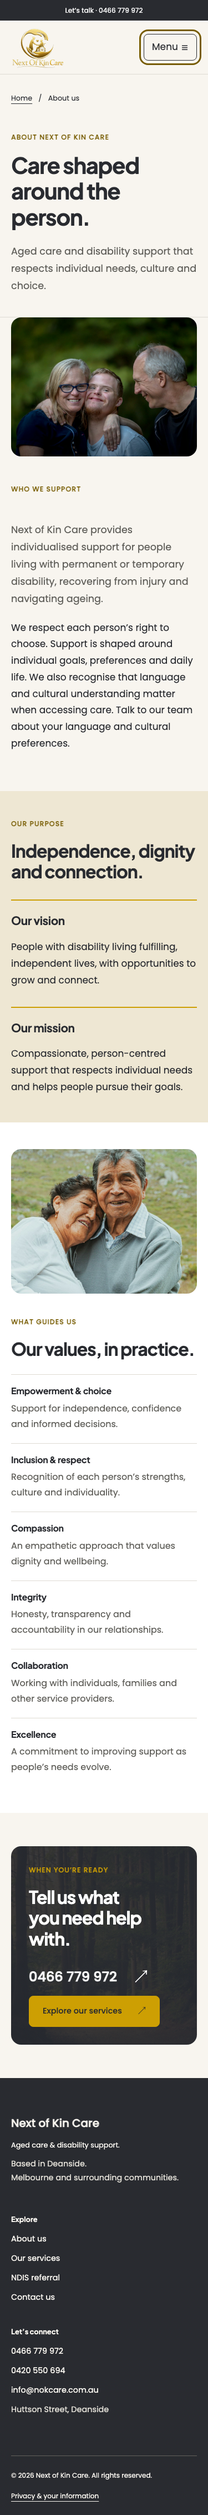
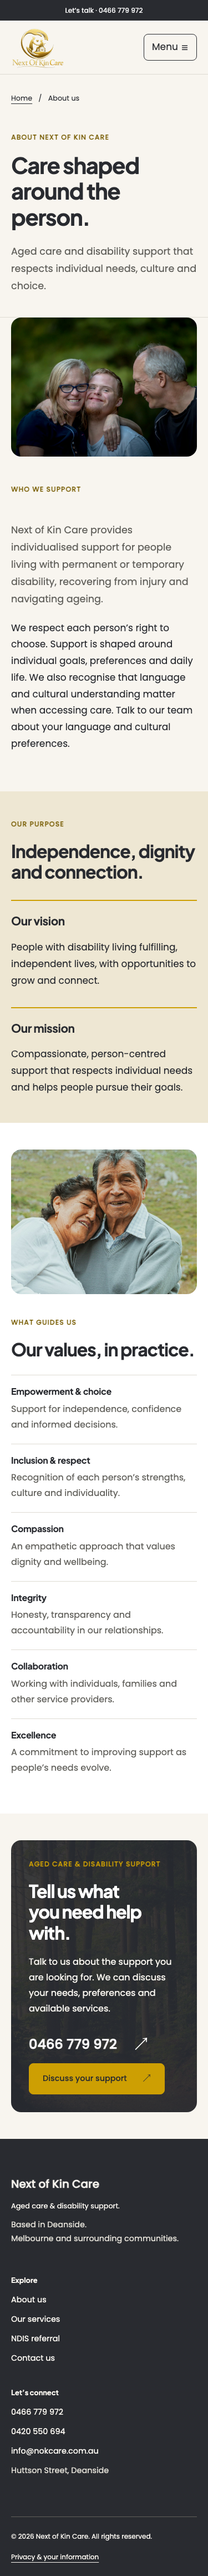
Share detailed closing CTAs across inner pages and remove group enquiry links

diff --git a/services.html b/services.html
@@ -2,5 +2,5 @@
 <html lang="en-AU"><head><meta charset="utf-8"><meta name="viewport" content="width=device-width, initial-scale=1"><title>Our Services | Next of Kin Care</title><meta name="description" content="Explore NOK Care services including daily living, personal care, household tasks, transport, community participation and NDIS support."><meta name="theme-color" content="#F8F5EF"><meta property="og:title" content="Our Services | Next of Kin Care"><meta property="og:description" content="Explore NOK Care services including daily living, personal care, household tasks, transport, community participation and NDIS support."><meta property="og:type" content="website"><link rel="icon" href="assets/icons/favicon.svg" type="image/svg+xml"><link rel="stylesheet" href="css/brand.css"><link rel="stylesheet" href="css/global.css"><link rel="stylesheet" href="css/components.css"><link rel="stylesheet" href="css/layout.css"><link rel="stylesheet" href="css/responsive.css"><script type="module" src="js/main.js"></script></head><body class="page-services"><a class="skip-link" href="#main">Skip to content</a>
 <header class="site-header"><div class="utility"><div class="container"><span>Aged care & disability support</span><a href="tel:0466779972">Let’s talk · 0466 779 972</a></div></div>
 <div class="container header-inner"><a class="brand" href="index.html" aria-label="Next of Kin Care home"><img src="assets/images/nok-care-logo.png" alt="Next of Kin Care" width="375" height="286"></a><button type="button" class="menu-toggle" aria-expanded="false" aria-controls="main-nav" hidden>Menu <span aria-hidden="true">☰</span></button><nav id="main-nav" aria-label="Main navigation"><a href="index.html">Home</a><a href="about.html">About us</a><a href="services.html" aria-current="page">Services</a><a href="contact.html">Contact us</a><a class="button button-small" href="referral.html">NDIS referral <span aria-hidden="true">↗</span></a></nav></div></header><main id="main" tabindex="-1"><section class="page-hero"><div class="container"><div class="breadcrumb"><a href="index.html">Home</a><span aria-hidden="true">/</span><span>Services</span></div><div class="page-heading page-heading--compact"><div class="page-heading-copy"><span class="eyebrow">Our services</span><h1>Help at home. Support to get out.</h1><p class="lead">Browse our aged care and disability support services. Call us to discuss your needs, funding and availability.</p></div></div></div></section>
-<section class="section section-tight" id="service-directory"><div class="container"><nav class="category-nav" aria-label="Service categories"><a href="#home-support">At home & daily life <span aria-hidden="true">↓</span></a><a href="#community-support">Community, travel & work <span aria-hidden="true">↓</span></a><a href="#plan-support">NDIS plan & coordination <span aria-hidden="true">↓</span></a></nav><div id="disability-support" class="directory-intro"><span class="eyebrow">Disability & NDIS support</span><p>Browse our published services below. Contact the team to confirm suitability, current availability and funding arrangements.</p></div><section class="service-group" id="home-support"><div class="service-group-intro"><h2>At home &amp; everyday life</h2><p>Practical support with routines, personal activities and independent living.</p><img class="service-group-photo" src="assets/images/aged-care-companionship.jpg" alt="An older couple sharing a hug outdoors" width="900" height="1350" loading="lazy"></div><div class="service-group-content"><div class="service-grid service-grid--plain"><article class="service-card" id="personal-care"><div class="service-copy"><h3>Personal care</h3><p>Respectful support with personal routines, mobility, meals and everyday wellbeing.</p></div></article><article class="service-card" id="daily-living"><div class="service-copy"><h3>Daily living &amp; life skills</h3><p>Build practical skills for everyday independence, including cooking, budgeting and daily routines.</p></div></article><article class="service-card" id="household"><div class="service-copy"><h3>Household tasks</h3><p>Practical help with cleaning, laundry, meal preparation and keeping your home comfortable.</p></div></article><article class="service-card" id="sil"><div class="service-copy"><h3>Supported independent living</h3><p>Personalised assistance with everyday life in an independent or shared home.</p></div></article></div><a class="text-link service-group-discuss" href="contact.html" aria-label="Discuss these services: At home &amp; everyday life">Discuss these services</a></div></section><section class="service-group" id="community-support"><div class="service-group-intro"><h2>Out in your community</h2><p>Explore connection, travel, activities, work and study support.</p><img class="service-group-photo" src="assets/images/community-connections.jpg" alt="Friends sitting together outdoors" width="900" height="506" loading="lazy"></div><div class="service-group-content"><div class="service-grid service-grid--plain"><article class="service-card" id="community"><div class="service-copy"><h3>Community participation</h3><p>Stay connected through social, recreational, cultural and community activities.</p></div></article><article class="service-card" id="innovative-community"><div class="service-copy"><h3>Innovative community participation</h3><p>Explore interests, develop skills and build confidence through meaningful activities.</p></div></article><article class="service-card" id="transport"><div class="service-copy"><h3>Travel &amp; transport assistance</h3><p>Support to get to appointments, education, work and activities in your community.</p></div></article><article class="service-card" id="employment"><div class="service-copy"><h3>Employment &amp; higher education</h3><p>Practical support with job readiness, applications, study skills and workplace confidence.</p></div></article></div><a class="text-link service-group-discuss" href="contact.html" aria-label="Discuss these services: Out in your community">Discuss these services</a></div></section><section class="service-group" id="plan-support"><div class="service-group-intro"><h2>Your plan &amp; support network</h2><p>Explore help with plan administration and connecting services.</p><img class="service-group-photo" src="assets/images/planning-together.jpg" alt="People discussing ideas around a table" width="1100" height="733" loading="lazy"></div><div class="service-group-content"><div class="service-grid service-grid--plain"><article class="service-card" id="plan-management"><div class="service-copy"><h3>NDIS plan management</h3><p>Support with invoices, provider payments, budget tracking and financial reporting.</p></div></article><article class="service-card" id="coordination"><div class="service-copy"><h3>Support coordination</h3><p>Help understanding your NDIS plan and connecting with suitable services and supports.</p></div></article></div><a class="text-link service-group-discuss" href="contact.html" aria-label="Discuss these services: Your plan &amp; support network">Discuss these services</a></div></section></div></section>
-<section class="section section-standard" id="aged-care"><div class="container cta cta-services"><div><span class="eyebrow">Aged care & disability support</span><h2>Tell us what<br>you need help with.</h2><p>Looking for aged care? Talk to us about help at home and staying connected. We’ll discuss suitable services, availability and funding for your circumstances.</p></div><div><a class="cta-phone" href="tel:0466779972">0466 779 972 <span aria-hidden="true">↗</span></a><a class="button" href="contact.html">Discuss your support <span aria-hidden="true">↗</span></a></div></div></section></main><footer class="site-footer"><div class="container footer-grid"><div><a class="footer-brand" href="index.html">Next of Kin Care<span>Aged care & disability support.</span></a><p>Based in Deanside.<br>Melbourne and surrounding communities.</p></div><div><h2>Explore</h2><a href="about.html">About us</a><a href="services.html">Our services</a><a href="referral.html">NDIS referral</a><a href="contact.html">Contact us</a></div><div><h2>Let’s connect</h2><a href="tel:0466779972">0466 779 972</a><a href="tel:0420550694">0420 550 694</a><a href="mailto:info@nokcare.com.au">info@nokcare.com.au</a><p>Huttson Street, Deanside</p></div></div><div class="container footer-bottom"><span>© 2026 Next of Kin Care. All rights reserved.</span><a href="contact.html#privacy">Privacy & your information</a></div></footer></body></html>
+<section class="section section-tight" id="service-directory"><div class="container"><nav class="category-nav" aria-label="Service categories"><a href="#home-support">At home & daily life <span aria-hidden="true">↓</span></a><a href="#community-support">Community, travel & work <span aria-hidden="true">↓</span></a><a href="#plan-support">NDIS plan & coordination <span aria-hidden="true">↓</span></a></nav><div id="disability-support" class="directory-intro"><span class="eyebrow">Disability & NDIS support</span><p>Browse our published services below. Contact the team to confirm suitability, current availability and funding arrangements.</p></div><section class="service-group" id="home-support"><div class="service-group-intro"><h2>At home &amp; everyday life</h2><p>Practical support with routines, personal activities and independent living.</p><img class="service-group-photo" src="assets/images/aged-care-companionship.jpg" alt="An older couple sharing a hug outdoors" width="900" height="1350" loading="lazy"></div><div class="service-group-content"><div class="service-grid service-grid--plain"><article class="service-card" id="personal-care"><div class="service-copy"><h3>Personal care</h3><p>Respectful support with personal routines, mobility, meals and everyday wellbeing.</p></div></article><article class="service-card" id="daily-living"><div class="service-copy"><h3>Daily living &amp; life skills</h3><p>Build practical skills for everyday independence, including cooking, budgeting and daily routines.</p></div></article><article class="service-card" id="household"><div class="service-copy"><h3>Household tasks</h3><p>Practical help with cleaning, laundry, meal preparation and keeping your home comfortable.</p></div></article><article class="service-card" id="sil"><div class="service-copy"><h3>Supported independent living</h3><p>Personalised assistance with everyday life in an independent or shared home.</p></div></article></div></div></section><section class="service-group" id="community-support"><div class="service-group-intro"><h2>Out in your community</h2><p>Explore connection, travel, activities, work and study support.</p><img class="service-group-photo" src="assets/images/community-connections.jpg" alt="Friends sitting together outdoors" width="900" height="506" loading="lazy"></div><div class="service-group-content"><div class="service-grid service-grid--plain"><article class="service-card" id="community"><div class="service-copy"><h3>Community participation</h3><p>Stay connected through social, recreational, cultural and community activities.</p></div></article><article class="service-card" id="innovative-community"><div class="service-copy"><h3>Innovative community participation</h3><p>Explore interests, develop skills and build confidence through meaningful activities.</p></div></article><article class="service-card" id="transport"><div class="service-copy"><h3>Travel &amp; transport assistance</h3><p>Support to get to appointments, education, work and activities in your community.</p></div></article><article class="service-card" id="employment"><div class="service-copy"><h3>Employment &amp; higher education</h3><p>Practical support with job readiness, applications, study skills and workplace confidence.</p></div></article></div></div></section><section class="service-group" id="plan-support"><div class="service-group-intro"><h2>Your plan &amp; support network</h2><p>Explore help with plan administration and connecting services.</p><img class="service-group-photo" src="assets/images/planning-together.jpg" alt="People discussing ideas around a table" width="1100" height="733" loading="lazy"></div><div class="service-group-content"><div class="service-grid service-grid--plain"><article class="service-card" id="plan-management"><div class="service-copy"><h3>NDIS plan management</h3><p>Support with invoices, provider payments, budget tracking and financial reporting.</p></div></article><article class="service-card" id="coordination"><div class="service-copy"><h3>Support coordination</h3><p>Help understanding your NDIS plan and connecting with suitable services and supports.</p></div></article></div></div></section></div></section>
+<section class="section section-standard" id="aged-care"><div class="container cta cta-detailed"><div><span class="eyebrow">Aged care & disability support</span><h2>Tell us what<br>you need help with.</h2><p>Looking for aged care? Talk to us about help at home and staying connected. We’ll discuss suitable services, availability and funding for your circumstances.</p></div><div><a class="cta-phone" href="tel:0466779972">0466 779 972 <span aria-hidden="true">↗</span></a><a class="button" href="contact.html">Discuss your support <span aria-hidden="true">↗</span></a></div></div></section></main><footer class="site-footer"><div class="container footer-grid"><div><a class="footer-brand" href="index.html">Next of Kin Care<span>Aged care & disability support.</span></a><p>Based in Deanside.<br>Melbourne and surrounding communities.</p></div><div><h2>Explore</h2><a href="about.html">About us</a><a href="services.html">Our services</a><a href="referral.html">NDIS referral</a><a href="contact.html">Contact us</a></div><div><h2>Let’s connect</h2><a href="tel:0466779972">0466 779 972</a><a href="tel:0420550694">0420 550 694</a><a href="mailto:info@nokcare.com.au">info@nokcare.com.au</a><p>Huttson Street, Deanside</p></div></div><div class="container footer-bottom"><span>© 2026 Next of Kin Care. All rights reserved.</span><a href="contact.html#privacy">Privacy & your information</a></div></footer></body></html>

diff --git a/contact.html b/contact.html
@@ -21,4 +21,5 @@
     <noscript><p class="notice">This form preview needs JavaScript. Please use the phone or email details on this page.</p></noscript>
   </form>
 </div><div class="contact-sidebar"><span class="eyebrow">Direct contact</span><h2>Other ways to connect.</h2><div class="contact-detail"><span>Call the team</span><a href="tel:0466779972">0466 779 972</a><br><a href="tel:0420550694">0420 550 694</a></div><div class="contact-detail"><span>Email for general enquiries</span><a href="mailto:info@nokcare.com.au">info@nokcare.com.au</a></div><div class="contact-detail"><span>Location</span>Huttson Street, Deanside<p class="form-note">Please call to confirm appointment arrangements.</p></div><figure class="sidebar-photo"><img src="assets/images/melbourne-river.jpg" alt="Melbourne skyline and the Yarra River" width="1200" height="800" loading="lazy"><figcaption>Melbourne and surrounding communities</figcaption></figure><h3>Our service areas</h3><div class="pills"><span class="pill">Melbourne</span><span class="pill">Lara</span><span class="pill">Bannockburn</span><span class="pill">Geelong</span><span class="pill">Werribee</span></div><p class="form-note">Ask the team about availability in your suburb.</p></div></div></div></section>
-<section class="section section-standard white" id="privacy"><div class="container narrow"><span class="eyebrow">Your information</span><h2>Your information.</h2><p>This website provides phone and email links for general enquiries. The form is a preview: details stay on the page and are not sent or saved by this website. It does not collect participant records or use analytics or browser storage.</p><p>For general questions, call or email the team. Before providing personal, health or NDIS documents, call to agree on a secure way to share them. Contact the team with questions about how information shared by phone or email is handled.</p></div></section></main><footer class="site-footer"><div class="container footer-grid"><div><a class="footer-brand" href="index.html">Next of Kin Care<span>Aged care & disability support.</span></a><p>Based in Deanside.<br>Melbourne and surrounding communities.</p></div><div><h2>Explore</h2><a href="about.html">About us</a><a href="services.html">Our services</a><a href="referral.html">NDIS referral</a><a href="contact.html">Contact us</a></div><div><h2>Let’s connect</h2><a href="tel:0466779972">0466 779 972</a><a href="tel:0420550694">0420 550 694</a><a href="mailto:info@nokcare.com.au">info@nokcare.com.au</a><p>Huttson Street, Deanside</p></div></div><div class="container footer-bottom"><span>© 2026 Next of Kin Care. All rights reserved.</span><a href="contact.html#privacy">Privacy & your information</a></div></footer></body></html>
+<section class="section section-standard white" id="privacy"><div class="container narrow"><span class="eyebrow">Your information</span><h2>Your information.</h2><p>This website provides phone and email links for general enquiries. The form is a preview: details stay on the page and are not sent or saved by this website. It does not collect participant records or use analytics or browser storage.</p><p>For general questions, call or email the team. Before providing personal, health or NDIS documents, call to agree on a secure way to share them. Contact the team with questions about how information shared by phone or email is handled.</p></div></section>
+<section class="section section-standard"><div class="container cta cta-detailed"><div><span class="eyebrow">Aged care & disability support</span><h2>Tell us what<br>you need help with.</h2><p>Call or email the team to discuss support, availability and the next step. Please arrange a secure channel before sharing personal documents.</p></div><div><a class="cta-phone" href="tel:0466779972">0466 779 972 <span aria-hidden="true">↗</span></a><a class="button" href="mailto:info@nokcare.com.au">Email the team <span aria-hidden="true">↗</span></a></div></div></section></main><footer class="site-footer"><div class="container footer-grid"><div><a class="footer-brand" href="index.html">Next of Kin Care<span>Aged care & disability support.</span></a><p>Based in Deanside.<br>Melbourne and surrounding communities.</p></div><div><h2>Explore</h2><a href="about.html">About us</a><a href="services.html">Our services</a><a href="referral.html">NDIS referral</a><a href="contact.html">Contact us</a></div><div><h2>Let’s connect</h2><a href="tel:0466779972">0466 779 972</a><a href="tel:0420550694">0420 550 694</a><a href="mailto:info@nokcare.com.au">info@nokcare.com.au</a><p>Huttson Street, Deanside</p></div></div><div class="container footer-bottom"><span>© 2026 Next of Kin Care. All rights reserved.</span><a href="contact.html#privacy">Privacy & your information</a></div></footer></body></html>

diff --git a/about.html b/about.html
@@ -6,4 +6,4 @@
 <section class="section section-standard"><div class="container editorial-row"><span class="eyebrow">Who we support</span><div class="about-story"><p class="lead">Next of Kin Care provides individualised support for people living with permanent or temporary disability, recovering from injury and navigating ageing.</p><p>We respect each person’s right to choose. Support is shaped around individual goals, preferences and daily life. We also recognise that language and cultural understanding matter when accessing care. Talk to our team about your language and cultural preferences.</p></div></div></section>
 <section class="section section-standard purpose-band"><div class="container"><span class="eyebrow">Our purpose</span><h2>Independence, dignity<br>and connection.</h2><div class="purpose-grid"><article><h3>Our vision</h3><p>People with disability living fulfilling, independent lives, with opportunities to grow and connect.</p></article><article><h3>Our mission</h3><p>Compassionate, person-centred support that respects individual needs and helps people pursue their goals.</p></article></div></div></section>
 <section class="section section-standard white"><div class="container values-feature"><img src="assets/images/aged-care-companionship.jpg" alt="An older couple sharing a moment outdoors" width="900" height="1350" loading="lazy"><div><span class="eyebrow">What guides us</span><h2>Our values, in practice.</h2><div class="values-grid"><div class="value"><h3>Empowerment &amp; choice</h3><p>Support for independence, confidence and informed decisions.</p></div><div class="value"><h3>Inclusion &amp; respect</h3><p>Recognition of each person’s strengths, culture and individuality.</p></div><div class="value"><h3>Compassion</h3><p>An empathetic approach that values dignity and wellbeing.</p></div><div class="value"><h3>Integrity</h3><p>Honesty, transparency and accountability in our relationships.</p></div><div class="value"><h3>Collaboration</h3><p>Working with individuals, families and other service providers.</p></div><div class="value"><h3>Excellence</h3><p>A commitment to improving support as people’s needs evolve.</p></div></div></div></div></section>
-<section class="section"><div class="container cta"><div><span class="eyebrow">When you’re ready</span><h2>Tell us what<br>you need help with.</h2></div><div><a class="cta-phone" href="tel:0466779972">0466 779 972 <span aria-hidden="true">↗</span></a><a class="button" href="services.html">Explore our services <span aria-hidden="true">↗</span></a></div></div></section></main><footer class="site-footer"><div class="container footer-grid"><div><a class="footer-brand" href="index.html">Next of Kin Care<span>Aged care & disability support.</span></a><p>Based in Deanside.<br>Melbourne and surrounding communities.</p></div><div><h2>Explore</h2><a href="about.html">About us</a><a href="services.html">Our services</a><a href="referral.html">NDIS referral</a><a href="contact.html">Contact us</a></div><div><h2>Let’s connect</h2><a href="tel:0466779972">0466 779 972</a><a href="tel:0420550694">0420 550 694</a><a href="mailto:info@nokcare.com.au">info@nokcare.com.au</a><p>Huttson Street, Deanside</p></div></div><div class="container footer-bottom"><span>© 2026 Next of Kin Care. All rights reserved.</span><a href="contact.html#privacy">Privacy & your information</a></div></footer></body></html>
+<section class="section section-standard"><div class="container cta cta-detailed"><div><span class="eyebrow">Aged care & disability support</span><h2>Tell us what<br>you need help with.</h2><p>Talk to us about the support you are looking for. We can discuss your needs, preferences and available services.</p></div><div><a class="cta-phone" href="tel:0466779972">0466 779 972 <span aria-hidden="true">↗</span></a><a class="button" href="contact.html">Discuss your support <span aria-hidden="true">↗</span></a></div></div></section></main><footer class="site-footer"><div class="container footer-grid"><div><a class="footer-brand" href="index.html">Next of Kin Care<span>Aged care & disability support.</span></a><p>Based in Deanside.<br>Melbourne and surrounding communities.</p></div><div><h2>Explore</h2><a href="about.html">About us</a><a href="services.html">Our services</a><a href="referral.html">NDIS referral</a><a href="contact.html">Contact us</a></div><div><h2>Let’s connect</h2><a href="tel:0466779972">0466 779 972</a><a href="tel:0420550694">0420 550 694</a><a href="mailto:info@nokcare.com.au">info@nokcare.com.au</a><p>Huttson Street, Deanside</p></div></div><div class="container footer-bottom"><span>© 2026 Next of Kin Care. All rights reserved.</span><a href="contact.html#privacy">Privacy & your information</a></div></footer></body></html>

diff --git a/referral.html b/referral.html
@@ -22,4 +22,4 @@
   </form>
 </div><div class="contact-sidebar"><span class="eyebrow">Before you proceed</span><h2>A clear next step.</h2><p>Use a phone conversation to:</p><ul class="referral-checklist"><li>Ask about availability in the suburb where support is needed.</li><li>Discuss which services may be suitable.</li><li>Arrange a secure way to share any participant documents.</li></ul><figure class="sidebar-photo"><img src="assets/images/planning-together.jpg" alt="People sharing ideas around a table" width="1100" height="733" loading="lazy"><figcaption>Space for your questions</figcaption></figure><p class="form-note">Participant details and documents are arranged separately. This enquiry preview asks only for the enquirer’s contact details.</p></div></div></div></section>
 <section class="section section-standard white"><div class="container split"><div><span class="eyebrow">Referral questions</span><h2>Before you<br>make an enquiry.</h2><p>Call the team if you would like to talk through the next step.</p><a class="text-link" href="tel:0466779972">0466 779 972 <span aria-hidden="true">↗</span></a></div><div class="faq"><details><summary>Who can make an enquiry?</summary><p>Participants, family members, carers, support coordinators and other professionals can contact the team to discuss support.</p></details><details><summary>Can I upload an NDIS plan or health documents?</summary><p>This website does not accept uploads or participant records. Call the team first to arrange a suitable secure way to share documents.</p></details><details><summary>What happens when I review the form?</summary><p>The preview checks that the required fields are complete. It does not send or save your details, and it does not submit a referral.</p></details><details><summary>How can I proceed now?</summary><p>Call the team to confirm service availability and discuss a secure next step. You do not need to share personal documents to ask about services.</p></details></div></div></section>
-<section class="section"><div class="container cta"><div><span class="eyebrow">When you’re ready</span><h2>Tell us what<br>you need help with.</h2></div><div><a class="cta-phone" href="tel:0466779972">0466 779 972 <span aria-hidden="true">↗</span></a><a class="button" href="tel:0466779972">Discuss a referral <span aria-hidden="true">↗</span></a></div></div></section></main><footer class="site-footer"><div class="container footer-grid"><div><a class="footer-brand" href="index.html">Next of Kin Care<span>Aged care & disability support.</span></a><p>Based in Deanside.<br>Melbourne and surrounding communities.</p></div><div><h2>Explore</h2><a href="about.html">About us</a><a href="services.html">Our services</a><a href="referral.html">NDIS referral</a><a href="contact.html">Contact us</a></div><div><h2>Let’s connect</h2><a href="tel:0466779972">0466 779 972</a><a href="tel:0420550694">0420 550 694</a><a href="mailto:info@nokcare.com.au">info@nokcare.com.au</a><p>Huttson Street, Deanside</p></div></div><div class="container footer-bottom"><span>© 2026 Next of Kin Care. All rights reserved.</span><a href="contact.html#privacy">Privacy & your information</a></div></footer></body></html>
+<section class="section section-standard"><div class="container cta cta-detailed"><div><span class="eyebrow">Aged care & disability support</span><h2>Tell us what<br>you need help with.</h2><p>Call to ask about service availability and how to proceed. Participant details and documents should be shared through an agreed secure channel.</p></div><div><a class="cta-phone" href="tel:0466779972">0466 779 972 <span aria-hidden="true">↗</span></a><a class="button" href="tel:0466779972">Discuss a referral <span aria-hidden="true">↗</span></a></div></div></section></main><footer class="site-footer"><div class="container footer-grid"><div><a class="footer-brand" href="index.html">Next of Kin Care<span>Aged care & disability support.</span></a><p>Based in Deanside.<br>Melbourne and surrounding communities.</p></div><div><h2>Explore</h2><a href="about.html">About us</a><a href="services.html">Our services</a><a href="referral.html">NDIS referral</a><a href="contact.html">Contact us</a></div><div><h2>Let’s connect</h2><a href="tel:0466779972">0466 779 972</a><a href="tel:0420550694">0420 550 694</a><a href="mailto:info@nokcare.com.au">info@nokcare.com.au</a><p>Huttson Street, Deanside</p></div></div><div class="container footer-bottom"><span>© 2026 Next of Kin Care. All rights reserved.</span><a href="contact.html#privacy">Privacy & your information</a></div></footer></body></html>

diff --git a/templates/referral.html b/templates/referral.html
@@ -1,4 +1,4 @@
 {{page_hero}}
 <section class="section section-tight"><div class="container"><div class="contact-actions"><a class="button" href="tel:{{phone_link}}">Call to discuss a referral <span aria-hidden="true">↗</span></a><a class="text-link" href="#referral-enquiry-panel">View the enquiry preview <span aria-hidden="true">↓</span></a></div><div class="task-workspace">{{referral_form}}<div class="contact-sidebar"><span class="eyebrow">Before you proceed</span><h2>A clear next step.</h2><p>Use a phone conversation to:</p><ul class="referral-checklist"><li>Ask about availability in the suburb where support is needed.</li><li>Discuss which services may be suitable.</li><li>Arrange a secure way to share any participant documents.</li></ul><figure class="sidebar-photo"><img src="assets/images/planning-together.jpg" alt="People sharing ideas around a table" width="1100" height="733" loading="lazy"><figcaption>Space for your questions</figcaption></figure><p class="form-note">Participant details and documents are arranged separately. This enquiry preview asks only for the enquirer’s contact details.</p></div></div></div></section>
 <section class="section section-standard white"><div class="container split"><div><span class="eyebrow">Referral questions</span><h2>Before you<br>make an enquiry.</h2><p>Call the team if you would like to talk through the next step.</p><a class="text-link" href="tel:{{phone_link}}">{{phone}} <span aria-hidden="true">↗</span></a></div><div class="faq"><details><summary>Who can make an enquiry?</summary><p>Participants, family members, carers, support coordinators and other professionals can contact the team to discuss support.</p></details><details><summary>Can I upload an NDIS plan or health documents?</summary><p>This website does not accept uploads or participant records. Call the team first to arrange a suitable secure way to share documents.</p></details><details><summary>What happens when I review the form?</summary><p>The preview checks that the required fields are complete. It does not send or save your details, and it does not submit a referral.</p></details><details><summary>How can I proceed now?</summary><p>Call the team to confirm service availability and discuss a secure next step. You do not need to share personal documents to ask about services.</p></details></div></div></section>
-<section class="section"><div class="container cta"><div><span class="eyebrow">When you’re ready</span><h2>Tell us what<br>you need help with.</h2></div><div><a class="cta-phone" href="tel:{{phone_link}}">{{phone}} <span aria-hidden="true">↗</span></a><a class="button" href="tel:{{phone_link}}">Discuss a referral <span aria-hidden="true">↗</span></a></div></div></section>
+{{closing_cta}}

diff --git a/templates/contact.html b/templates/contact.html
@@ -1,3 +1,4 @@
 {{page_hero}}
 <section class="section section-tight"><div class="container"><div class="contact-actions"><a class="button" href="tel:{{phone_link}}">Call {{phone}} <span aria-hidden="true">↗</span></a><a class="button button-secondary" href="mailto:{{email}}">Email the team <span aria-hidden="true">↗</span></a></div><div class="task-workspace">{{contact_form}}<div class="contact-sidebar"><span class="eyebrow">Direct contact</span><h2>Other ways to connect.</h2><div class="contact-detail"><span>Call the team</span><a href="tel:{{phone_link}}">{{phone}}</a><br><a href="tel:{{second_phone_link}}">{{second_phone}}</a></div><div class="contact-detail"><span>Email for general enquiries</span><a href="mailto:{{email}}">{{email}}</a></div><div class="contact-detail"><span>Location</span>{{address}}<p class="form-note">Please call to confirm appointment arrangements.</p></div><figure class="sidebar-photo"><img src="assets/images/melbourne-river.jpg" alt="Melbourne skyline and the Yarra River" width="1200" height="800" loading="lazy"><figcaption>Melbourne and surrounding communities</figcaption></figure><h3>Our service areas</h3>{{areas}}<p class="form-note">Ask the team about availability in your suburb.</p></div></div></div></section>
 <section class="section section-standard white" id="privacy"><div class="container narrow"><span class="eyebrow">Your information</span><h2>Your information.</h2><p>This website provides phone and email links for general enquiries. The form is a preview: details stay on the page and are not sent or saved by this website. It does not collect participant records or use analytics or browser storage.</p><p>For general questions, call or email the team. Before providing personal, health or NDIS documents, call to agree on a secure way to share them. Contact the team with questions about how information shared by phone or email is handled.</p></div></section>
+{{closing_cta}}

diff --git a/templates/about.html b/templates/about.html
@@ -3,4 +3,4 @@
 <section class="section section-standard"><div class="container editorial-row"><span class="eyebrow">Who we support</span><div class="about-story"><p class="lead">Next of Kin Care provides individualised support for people living with permanent or temporary disability, recovering from injury and navigating ageing.</p><p>We respect each person’s right to choose. Support is shaped around individual goals, preferences and daily life. We also recognise that language and cultural understanding matter when accessing care. Talk to our team about your language and cultural preferences.</p></div></div></section>
 <section class="section section-standard purpose-band"><div class="container"><span class="eyebrow">Our purpose</span><h2>Independence, dignity<br>and connection.</h2><div class="purpose-grid"><article><h3>Our vision</h3><p>People with disability living fulfilling, independent lives, with opportunities to grow and connect.</p></article><article><h3>Our mission</h3><p>Compassionate, person-centred support that respects individual needs and helps people pursue their goals.</p></article></div></div></section>
 <section class="section section-standard white"><div class="container values-feature"><img src="assets/images/aged-care-companionship.jpg" alt="An older couple sharing a moment outdoors" width="900" height="1350" loading="lazy"><div><span class="eyebrow">What guides us</span><h2>Our values, in practice.</h2><div class="values-grid">{{values}}</div></div></div></section>
-<section class="section"><div class="container cta"><div><span class="eyebrow">When you’re ready</span><h2>Tell us what<br>you need help with.</h2></div><div><a class="cta-phone" href="tel:{{phone_link}}">{{phone}} <span aria-hidden="true">↗</span></a><a class="button" href="services.html">Explore our services <span aria-hidden="true">↗</span></a></div></div></section>
+{{closing_cta}}

diff --git a/templates/services.html b/templates/services.html
@@ -1,3 +1,3 @@
 {{page_hero}}
 <section class="section section-tight" id="service-directory"><div class="container"><nav class="category-nav" aria-label="Service categories"><a href="#home-support">At home & daily life <span aria-hidden="true">↓</span></a><a href="#community-support">Community, travel & work <span aria-hidden="true">↓</span></a><a href="#plan-support">NDIS plan & coordination <span aria-hidden="true">↓</span></a></nav><div id="disability-support" class="directory-intro"><span class="eyebrow">Disability & NDIS support</span><p>Browse our published services below. Contact the team to confirm suitability, current availability and funding arrangements.</p></div>{{all_services}}</div></section>
-<section class="section section-standard" id="aged-care"><div class="container cta cta-services"><div><span class="eyebrow">Aged care & disability support</span><h2>Tell us what<br>you need help with.</h2><p>Looking for aged care? Talk to us about help at home and staying connected. We’ll discuss suitable services, availability and funding for your circumstances.</p></div><div><a class="cta-phone" href="tel:{{phone_link}}">{{phone}} <span aria-hidden="true">↗</span></a><a class="button" href="contact.html">Discuss your support <span aria-hidden="true">↗</span></a></div></div></section>
+{{closing_cta}}

diff --git a/css/layout.css b/css/layout.css
@@ -148,7 +148,6 @@
 .service-grid--plain { border-top: 0; }
 .service-grid--plain .service-card { grid-template-columns: minmax(0, 1fr); border-bottom: 0; padding-block: 1.5rem; }
 .page-services .service-group:first-of-type { border-top: 0; }
-.cta-services p { max-width: 580px; margin: 1.25rem 0 0; color: var(--warm); font-size: 1rem; }
+.cta-detailed p { max-width: 580px; margin: 1.25rem 0 0; color: var(--warm); font-size: 1rem; }
 
 .service-group-content { min-width: 0; }
-.service-group-discuss { margin-top: .75rem; }

diff --git a/components/call-to-action.html b/components/call-to-action.html
@@ -1,0 +1,1 @@
+<section class="section section-standard"{{cta_section_id}}><div class="container cta cta-detailed"><div><span class="eyebrow">Aged care & disability support</span><h2>Tell us what<br>you need help with.</h2><p>{{cta_description}}</p></div><div><a class="cta-phone" href="tel:{{phone_link}}">{{phone}} <span aria-hidden="true">↗</span></a><a class="button" href="{{cta_target}}">{{cta_label}} <span aria-hidden="true">↗</span></a></div></div></section>

diff --git a/scripts/build.py b/scripts/build.py
@@ -10,6 +10,7 @@ ROOT = Path(__file__).resolve().parent.parent
 site = json.loads((ROOT / 'content/site.json').read_text())
 services = json.loads((ROOT / 'content/services.json').read_text())
 pages = json.loads((ROOT / 'content/pages.json').read_text())
+call_to_actions = json.loads((ROOT / 'content/call-to-actions.json').read_text())
 
 def render(text, values):
     rendered = re.sub(r'\{\{(\w+)\}\}', lambda match: str(values[match[1]]), text)
@@ -35,7 +36,7 @@ values['areas'] = '<div class="pills">' + ''.join('<span class="pill">' + escape
 service_lookup = {item['id']: item for item in services}
 groups = json.loads((ROOT / 'content/service-groups.json').read_text())
 values['all_services'] = ''.join(
-    '<section class="service-group" id="' + escape(group['id']) + '"><div class="service-group-intro"><h2>' + escape(group['title']) + '</h2><p>' + escape(group['description']) + '</p><img class="service-group-photo" src="assets/images/' + escape(group['image']) + '" alt="' + escape(group['alt']) + '" width="' + str(group['width']) + '" height="' + str(group['height']) + '" loading="lazy"></div><div class="service-group-content">' + service_cards([service_lookup[key] for key in group['services']], True) + '<a class="text-link service-group-discuss" href="contact.html" aria-label="Discuss these services: ' + escape(group['title']) + '">Discuss these services</a></div></section>'
+    '<section class="service-group" id="' + escape(group['id']) + '"><div class="service-group-intro"><h2>' + escape(group['title']) + '</h2><p>' + escape(group['description']) + '</p><img class="service-group-photo" src="assets/images/' + escape(group['image']) + '" alt="' + escape(group['alt']) + '" width="' + str(group['width']) + '" height="' + str(group['height']) + '" loading="lazy"></div><div class="service-group-content">' + service_cards([service_lookup[key] for key in group['services']], True) + '</div></section>'
     for group in groups)
 form_settings = json.loads((ROOT / 'content/forms.json').read_text())
 if form_settings['mode'] != 'preview' or form_settings['endpoint'] is not None or form_settings['participantDataEnabled']:
@@ -67,6 +68,15 @@ for page in pages:
     if key == 'referral':
         header = header.replace('class="button button-small" href="referral.html"','class="button button-small" href="referral.html" aria-current="page"')
     footer = render((ROOT/'components/footer.html').read_text(),current)
+    if key in call_to_actions:
+        config = call_to_actions[key]
+        target = config['target']
+        if target == 'phone':
+            target = 'tel:' + values['phone_link']
+        elif target == 'email':
+            target = 'mailto:' + site['email']
+        cta_values = dict(current, cta_description=escape(config['description']), cta_label=escape(config['label']), cta_target=escape(target), cta_section_id=(' id="' + escape(config['id']) + '"') if config.get('id') else '')
+        current['closing_cta'] = render((ROOT / 'components/call-to-action.html').read_text(), cta_values)
     body = render((ROOT/f'templates/{key}.html').read_text(),current)
     document = f'''<!doctype html>
 <html lang="en-AU"><head><meta charset="utf-8"><meta name="viewport" content="width=device-width, initial-scale=1"><title>{escape(page['title'])}</title><meta name="description" content="{escape(page['description'])}"><meta name="theme-color" content="#F8F5EF"><meta property="og:title" content="{escape(page['title'])}"><meta property="og:description" content="{escape(page['description'])}"><meta property="og:type" content="website"><link rel="icon" href="assets/icons/favicon.svg" type="image/svg+xml">{styles}<script type="module" src="js/main.js"></script></head><body class="page-{key}">{header}<main id="main" tabindex="-1">{body}</main>{footer}</body></html>'''

diff --git a/README.md b/README.md
@@ -102,8 +102,12 @@ Sources and intended usage for the four new photographs are in `content/image-so
 Inner pages share brand tokens, typography, buttons and photographic treatment while using layouts suited to their purpose:
 
 - About uses an editorial masthead, one opening image, a concise story, a mission/vision band and a visual values grid.
-- Services uses a compact masthead and category jump links before its three illustrated groups. Plain service descriptions use spacing instead of divider lines or decorative numbers, with one subtle separator between groups. Individual directory descriptions have no links or arrows; each group ends with one “Discuss these services” link. Homepage featured-service links remain unchanged. One photographic contact panel combines general support and aged-care guidance, preserving `#aged-care`. All ten service anchors and both homepage audience destinations remain available.
+- Services uses a compact masthead and category jump links before its three illustrated groups. Plain service descriptions use spacing instead of divider lines or decorative numbers, with one subtle separator between groups. Individual directory descriptions have no links or arrows; group-level enquiry links are also omitted; the closing CTA provides the contact action. Homepage featured-service links remain unchanged. One photographic contact panel combines general support and aged-care guidance, preserving `#aged-care`. All ten service anchors and both homepage audience destinations remain available.
 - Contact uses a compact masthead, immediate phone/email actions and the form before supporting information in mobile/source order.
 - Referral uses the same task layout with concise guidance, referral-specific FAQs and a closing telephone action that stays in the referral journey.
 
 Use `heroLayout: "editorial"` or `"compact"` in `content/pages.json`. The builder also retains the `"image"` masthead variant for future use with `heroImage`. Section modifiers `section-tight` and `section-standard` provide spacing hierarchy. Category IDs belong in `content/service-groups.json`. The homepage is unchanged by this inner-page revision; its HTML checksum was verified before and after building.
+
+## Shared closing contact panel
+
+The four inner pages use `components/call-to-action.html` for the forest-backed closing panel shown on Services. Text, button labels and destinations are in `content/call-to-actions.json`; the builder resolves configured `phone`/`email` targets from `site.json`. About and Services link to Contact, Contact opens the general email address, and Referral keeps a telephone action. Services retains `#aged-care` on this shared closing section. There are no additional enquiry links beneath the service groups. The homepage keeps its existing closing panel unchanged.
